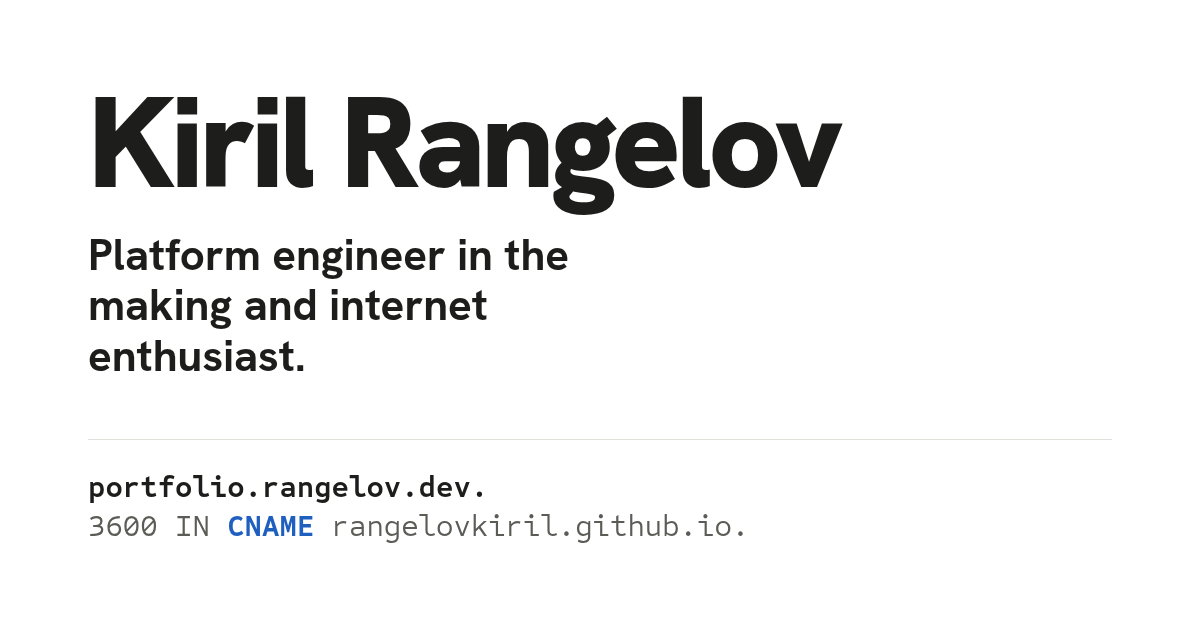
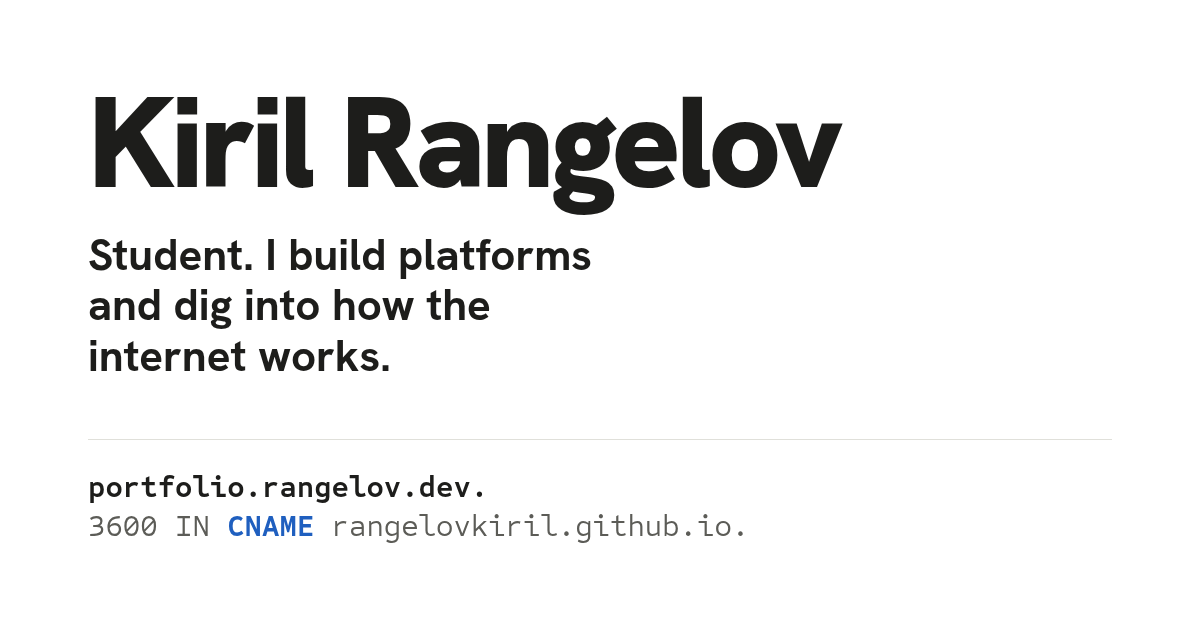
feat: new hero and guide wording

Changed region(s): [[0.0617, 0.3619, 0.4933, 0.5127], [0.0617, 0.5429, 0.3392, 0.6032]]

diff --git a/src/data/guide.ts b/src/data/guide.ts
@@ -13,8 +13,8 @@ export interface GuideRow {
 
 export const guide = {
   heading: "What the records mean",
-  intro: "Each section below is a DNS record of rangelov.dev. Tap a record to open it, or tap a type to see only those.",
-  verifyNote: "The verify button next to a record asks Quad9, a non-profit public DNS resolver, whether that record is really published and signed with DNSSEC.",
+  intro:
+    "Each section below is a DNS record of rangelov.dev. Open a record to read it, or pick a type to filter. The verify button next to a record asks Quad9, a non-profit public DNS resolver, whether that record is published and validates with DNSSEC.",
   showAll: "Show all records",
   openAll: "Open all records",
   closeAll: "Close all records",

diff --git a/src/data/zone.ts b/src/data/zone.ts
@@ -6,9 +6,8 @@ export const DEFAULT_TTL = 3600;
 
 export const profile = {
   name: "Kiril Rangelov",
-  tagline: "Platform engineer in the making and internet enthusiast.",
-  intro:
-    "I mostly do platform engineering, and I care about how the internet works underneath. So I introduce myself through my own DNS zone.",
+  tagline: "Student. I build platforms and dig into how the internet works.",
+  intro: "I care about how things work underneath, so I introduce myself through my own DNS zone.",
 };
 
 export const transfer = {

diff --git a/AGENTS.md b/AGENTS.md
@@ -94,13 +94,13 @@ There is no WHOIS block.
 ## Hero
 
 - `Kiril Rangelov` (h1, very large)
-- `Platform engineer in the making and internet enthusiast.` (large, bold)
-- One short line: `I mostly do platform engineering, and I care about how the internet works underneath. So I introduce myself through my own DNS zone.`
+- `Student. I build platforms and dig into how the internet works.` (large, bold)
+- One short line: `I care about how things work underneath, so I introduce myself through my own DNS zone.`
 - Keep the hero about me, not about DNS. The guide carries the DNS explanation.
 
 ## Guide (`src/data/guide.ts`)
 
-Heading `What the records mean`, then one line: `Each section below is a DNS record of rangelov.dev. Tap a record to open it, or tap a type to see only those.`
+Heading `What the records mean`, then one paragraph: `Each section below is a DNS record of rangelov.dev. Open a record to read it, or pick a type to filter. The verify button next to a record asks Quad9, a non-profit public DNS resolver, whether that record is published and validates with DNSSEC.`
 
 A list of rows. Each row is a button: type name in its type colour, what the
 record means in plain language, and what it holds on this page. Tapping a row
